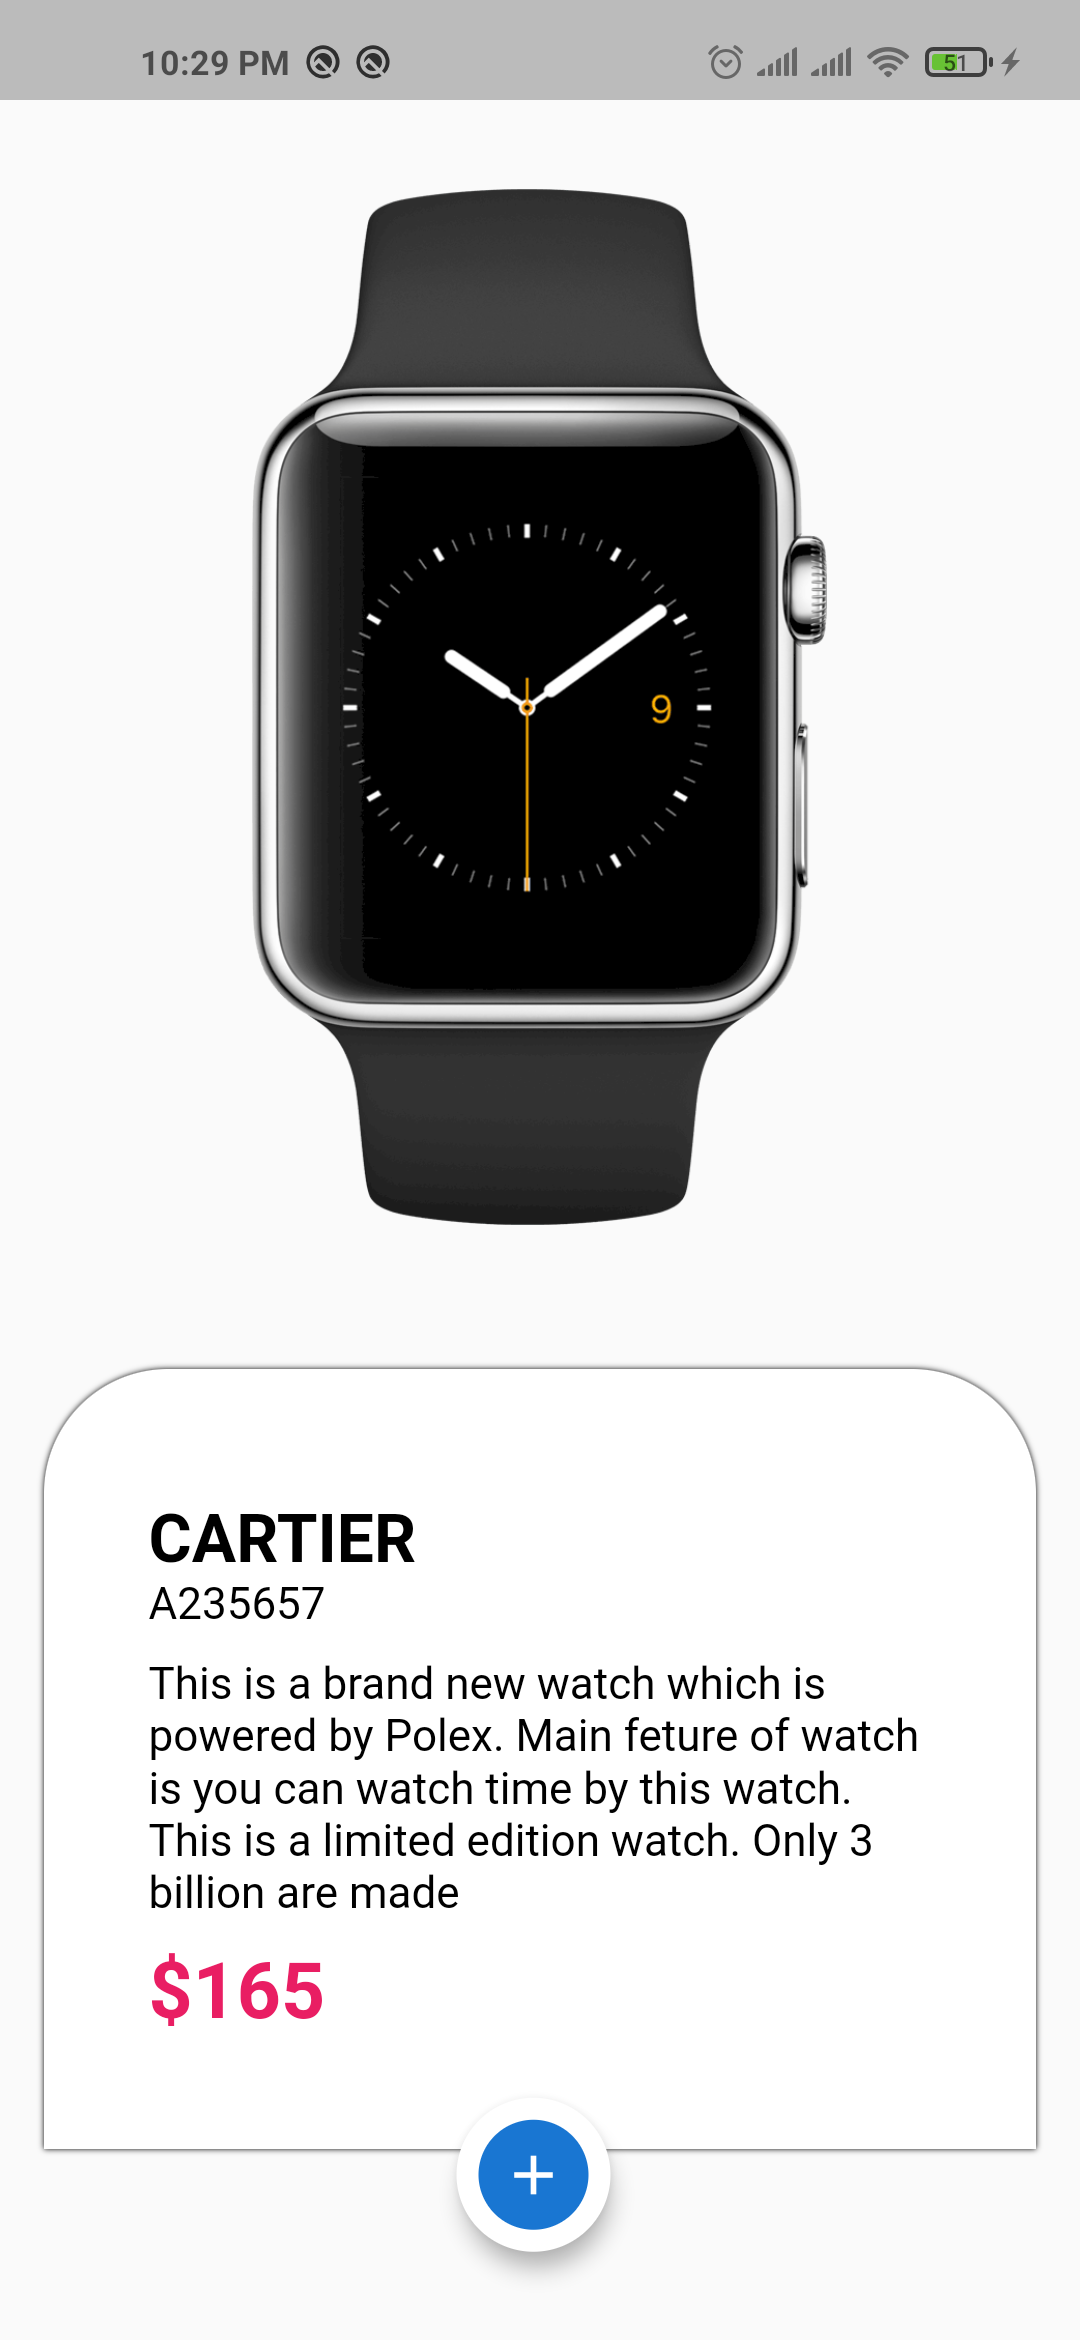
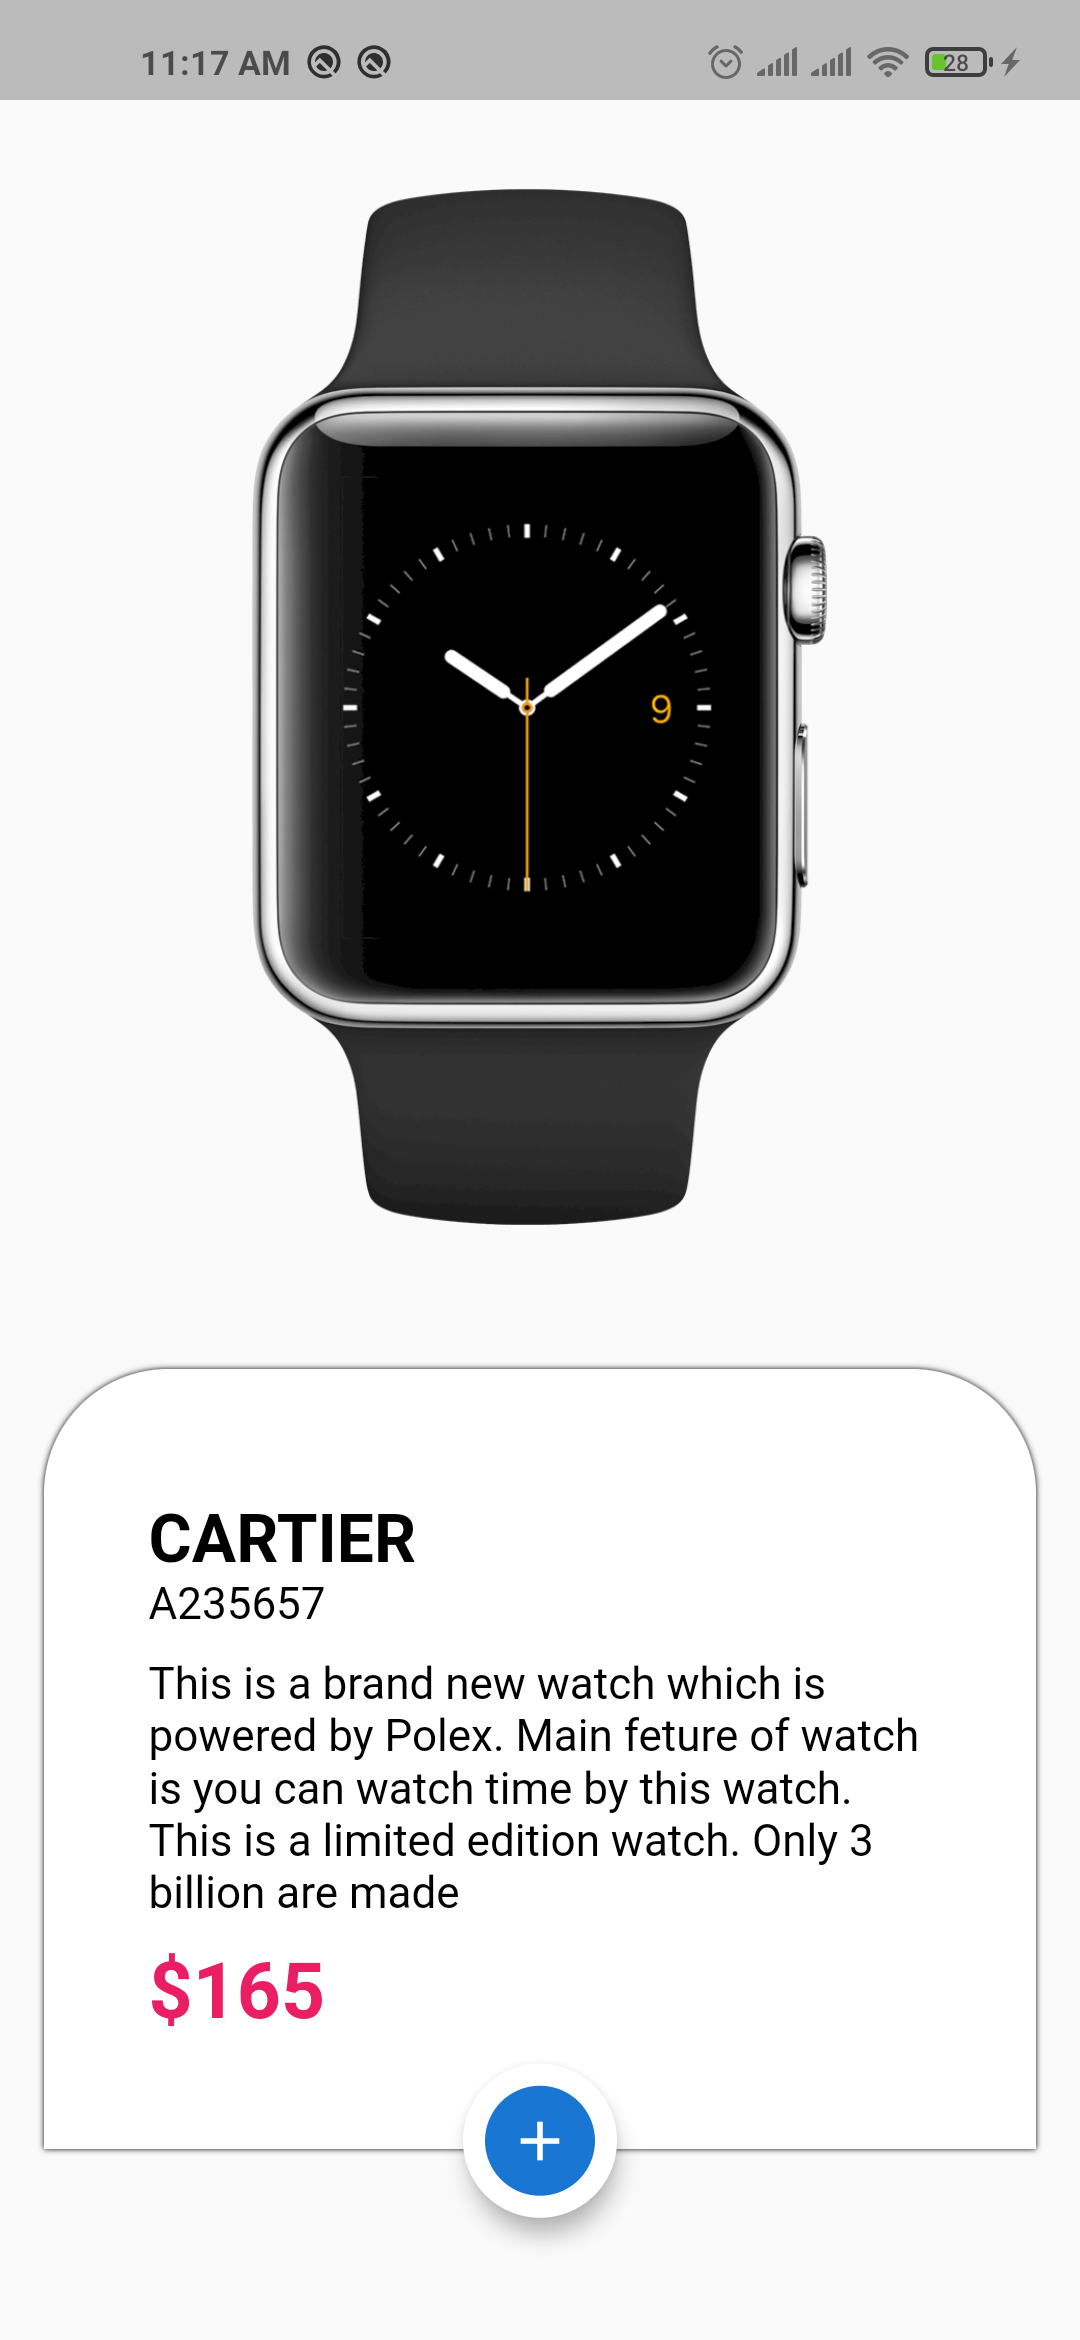
IGNORE:

Changed region(s): [[0.4278, 0.8735, 0.5806, 0.9983], [0.1528, 0.0, 0.2444, 0.0312]]

diff --git a/apple/lib/main.dart b/apple/lib/main.dart
@@ -1,3 +1,4 @@
+import 'package:apple/ui/apple.dart';
 import 'package:apple/ui/ball.dart';
 import 'package:apple/ui/cat.dart';
 import 'package:flutter/material.dart';
@@ -15,7 +16,7 @@ class MyApp extends StatelessWidget {
       theme: ThemeData(
         primarySwatch: Colors.blue,
       ),
-      home: CatPage(),
+      home: HomePage(),
       debugShowCheckedModeBanner: false,
     );
   }

diff --git a/apple/lib/ui/apple.dart b/apple/lib/ui/apple.dart
@@ -89,7 +89,7 @@ class _HomePageState extends State<HomePage> {
                       ),
                     ),
                     Positioned(
-                      bottom: -20,
+                      bottom: -25,
                       child: FloatingActionButton(
                         backgroundColor: Colors.white,
                         onPressed: () {},
